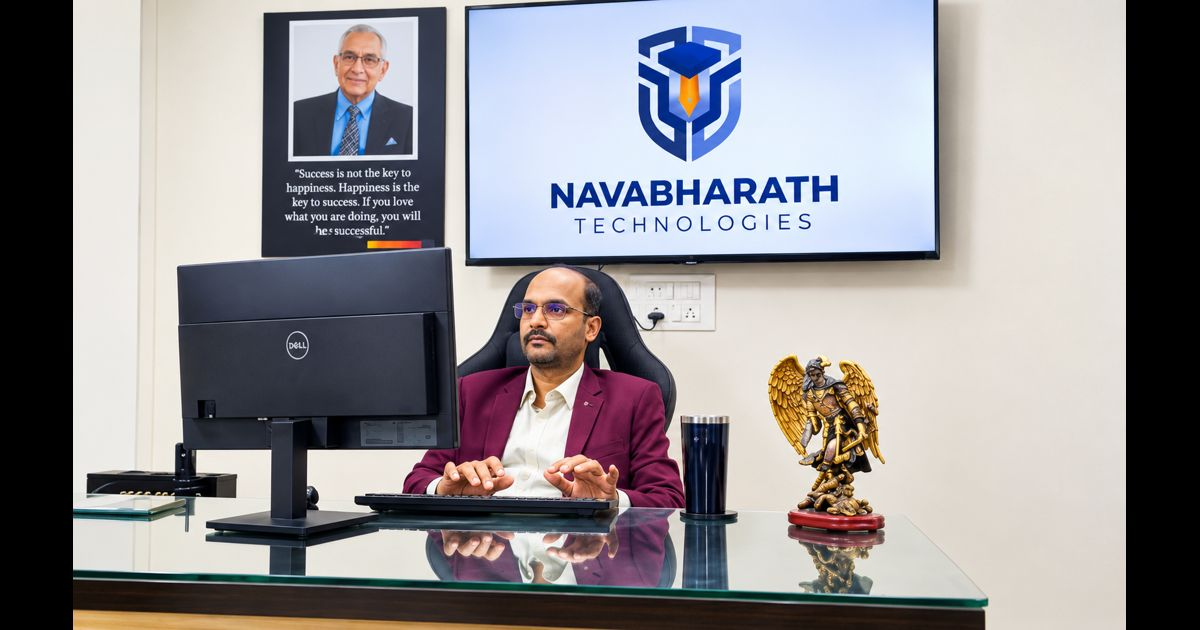
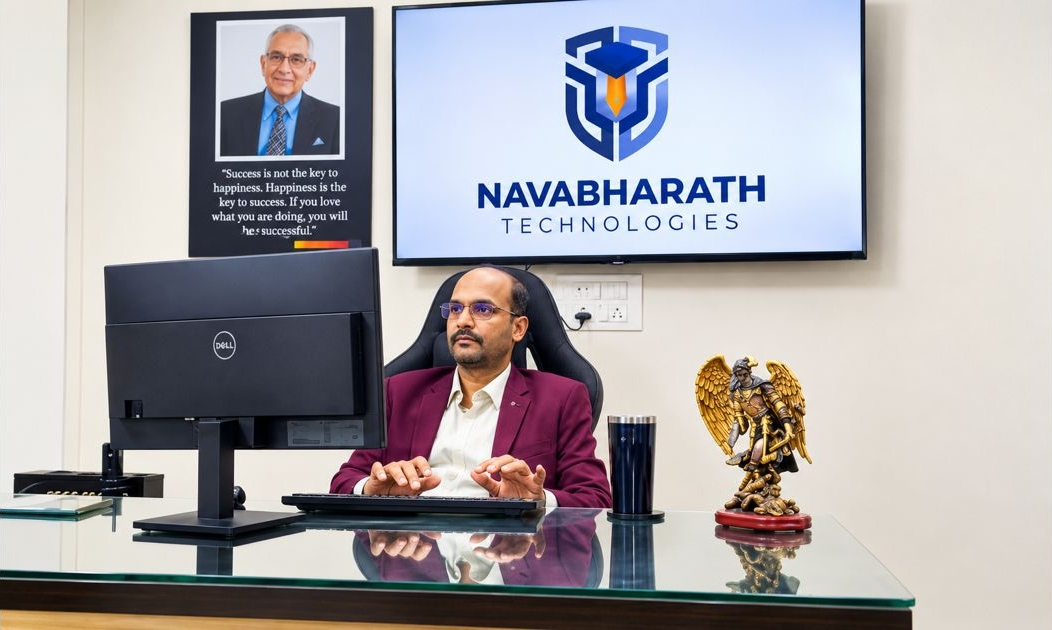
feat(ceo): crop black pillarbox bars and maximize CEO photo frame in Home and About pages

diff --git a/src/pages/About.jsx b/src/pages/About.jsx
@@ -85,26 +85,26 @@ export default function About() {
           </div>
 
           {/* ===================== CEO & COMPANY OVERVIEW ===================== */}
-          <div className="grid grid-cols-1 lg:grid-cols-12 gap-10 lg:gap-12 items-center mb-16">
-            {/* Left Column: CEO Photo Card */}
-            <div className="lg:col-span-5">
+          <div className="grid grid-cols-1 lg:grid-cols-12 gap-10 lg:gap-14 items-center mb-16">
+            {/* Left Column: CEO Photo Card (MAXIMIZED) */}
+            <div className="lg:col-span-6">
               <div
-                className="group relative bg-white border border-brand-silver/60 hover:border-brand-royal/40 rounded-3xl shadow-lg transition-all duration-300 overflow-hidden"
+                className="group relative bg-white border border-brand-silver/60 hover:border-brand-royal/40 rounded-3xl shadow-xl transition-all duration-300 overflow-hidden"
               >
                 {/* Floating Leadership Badge */}
                 <div
-                  className="absolute top-4 left-4 z-20 px-3.5 py-1.5 rounded-full bg-white/95 border border-brand-silver/60 backdrop-blur-md flex items-center gap-2 shadow-md"
+                  className="absolute top-5 left-5 z-20 px-3.5 py-1.5 rounded-full bg-white/95 border border-brand-silver/60 backdrop-blur-md flex items-center gap-2 shadow-md"
                 >
-                  <span className="w-2 h-2 rounded-full bg-brand-royal" />
+                  <span className="w-2 h-2 rounded-full bg-brand-royal animate-pulse" />
                   <span className="text-[11px] font-bold text-brand-navy tracking-wide uppercase font-heading">
                     Executive Leadership
                   </span>
                 </div>
 
-                {/* Photo Frame - Full Bleed Covering Side and Top Space */}
-                <div className="relative w-full overflow-hidden bg-brand-light aspect-[4/3] sm:aspect-[16/11]">
+                {/* Photo Frame - Fully Maximized Edge-to-Edge */}
+                <div className="relative w-full overflow-hidden bg-brand-light aspect-[16/10] sm:aspect-[1.67]">
                   <img
-                    src={getAssetUrl('/assets/dinesh-jk-ceo.jpg')}
+                    src={getAssetUrl('/assets/dinesh-jk-ceo.jpg?v=3')}
                     alt="Dinesh J K (CEO & Founder)"
                     className="w-full h-full object-cover object-center group-hover:scale-105 transition-transform duration-500 ease-out"
                   />
@@ -112,20 +112,25 @@ export default function About() {
                 </div>
 
                 {/* Caption / Title */}
-                <div className="p-6 text-center bg-white border-t border-brand-silver/30">
-                  <h3 className="text-xl font-bold text-brand-navy font-heading group-hover:text-brand-royal transition-colors">
-                    Dinesh J K
-                  </h3>
-                  <p className="text-xs font-semibold text-brand-royal uppercase tracking-wider mt-0.5">
-                    CEO &amp; Founder
-                  </p>
+                <div className="p-6 bg-white border-t border-brand-silver/30 flex items-center justify-between">
+                  <div>
+                    <h3 className="text-xl sm:text-2xl font-bold text-brand-navy font-heading group-hover:text-brand-royal transition-colors">
+                      Dinesh J K
+                    </h3>
+                    <p className="text-xs sm:text-sm font-semibold text-brand-royal uppercase tracking-wider mt-0.5">
+                      CEO &amp; Founder · Navabharath Technologies
+                    </p>
+                  </div>
+                  <span className="font-mono text-xs text-brand-steel font-bold hidden sm:inline-block">
+                    [2020 — PRESENT]
+                  </span>
                 </div>
               </div>
             </div>
 
             {/* Right Column: Information, Vision & Highlights */}
             <div
-              className="lg:col-span-7 space-y-6"
+              className="lg:col-span-6 space-y-6"
             >
               <div className="inline-flex items-center gap-2 px-3.5 py-1.5 rounded-full bg-brand-royal/10 border border-brand-royal/25 text-brand-royal text-xs font-semibold uppercase tracking-wider">
                 <span>Executive Leadership &amp; Company Overview</span>

diff --git a/src/pages/Home.jsx b/src/pages/Home.jsx
@@ -448,18 +448,18 @@ export default function Home() {
             {/* Right Column: Leadership Photo & Commitment Card */}
             <div className="lg:col-span-6 flex flex-col justify-between">
               <div className="group relative bg-white border border-brand-silver/60 hover:border-brand-royal/40 rounded-3xl shadow-sm hover:shadow-md transition-all duration-300 overflow-hidden flex flex-col justify-between h-full">
-                {/* Photo Frame - Covering Side & Top Space */}
-                <div className="relative w-full overflow-hidden bg-brand-light aspect-[16/10] sm:aspect-[16/9] lg:aspect-[16/10]">
+                {/* Photo Frame - Covering Side & Top Space (MAXIMIZED) */}
+                <div className="relative w-full overflow-hidden bg-brand-light aspect-[16/10] sm:aspect-[1.67]">
                   {/* Floating Executive Leadership Badge */}
                   <div className="absolute top-4 left-4 z-20 px-3.5 py-1.5 rounded-full bg-white/95 border border-brand-silver/60 backdrop-blur-md flex items-center gap-2 shadow-sm">
-                    <span className="w-2 h-2 rounded-full bg-brand-royal" />
+                    <span className="w-2 h-2 rounded-full bg-brand-royal animate-pulse" />
                     <span className="text-[11px] font-bold text-brand-navy tracking-wide uppercase font-heading">
                       Executive Leadership
                     </span>
                   </div>
 
                   <img
-                    src={getAssetUrl('/assets/dinesh-jk-ceo.jpg')}
+                    src={getAssetUrl('/assets/dinesh-jk-ceo.jpg?v=3')}
                     alt="Dinesh J K (CEO & Founder)"
                     className="w-full h-full object-cover object-center group-hover:scale-105 transition-transform duration-500 ease-out"
                   />
